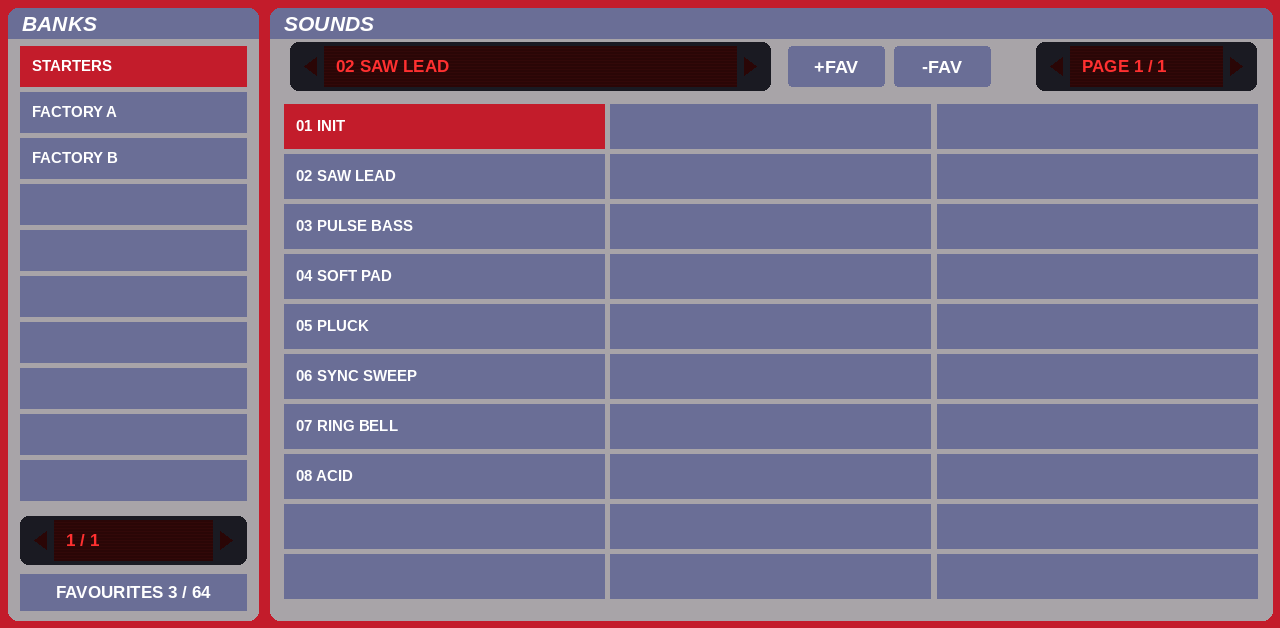
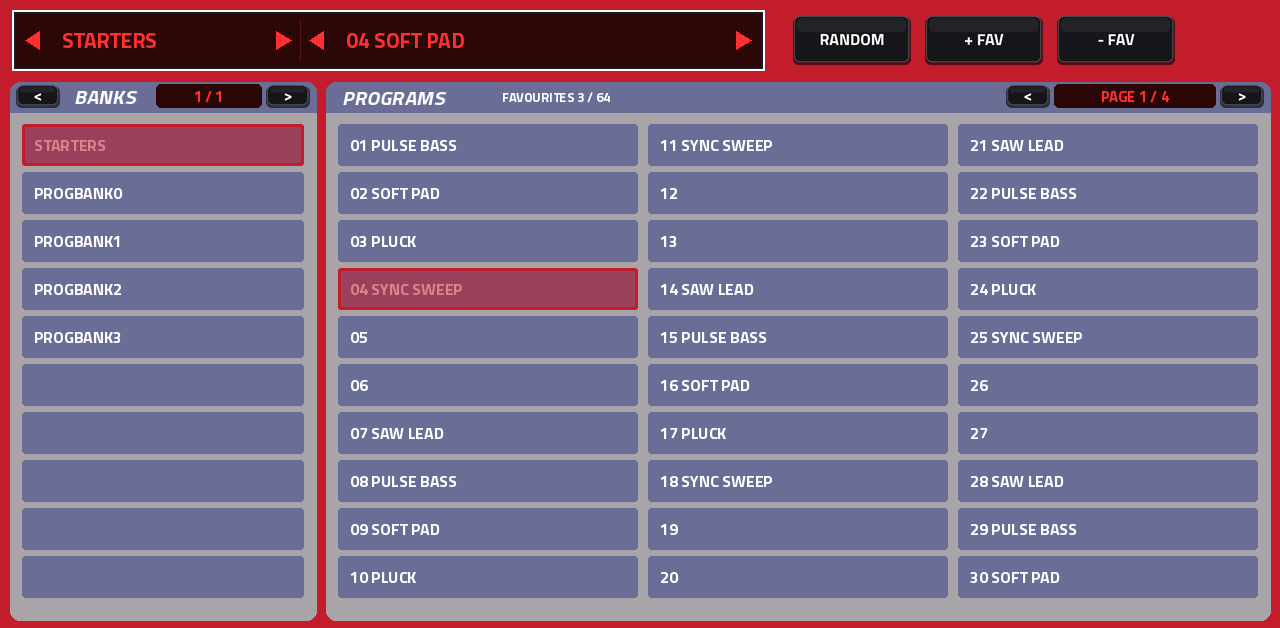
NodalRed2x 0.2.0: release packaging, README, screenshots, tested.json; keeps a 0.1.0 VST/nodalred2x data folder
Claude-Session: https://claude.ai/code/session_01V7tb5w5dPsa6WFixuaniE5

diff --git a/tools/scrub_zip.py b/tools/scrub_zip.py
@@ -1,0 +1,37 @@
+#!/usr/bin/env python3
+"""Rewrite comment lines in a release zip's install.sh that name firmware versions (public text stays version-neutral), refresh
+SHA256SUMS, keep every entry's mode bits. tools/scrub_zip.py dist/<zip> [...]"""
+import hashlib, re, sys, zipfile
+
+FIX = [(re.compile(r"^(\s*#.*?)\(the plugin loads either way; device test, MPC 3\.10\.0, (docs/NOTES\.md.*)$"), r"\1(the plugin loads either way; \2"),
+       (re.compile(r"^(\s*#\s*)MPC OS 3\.10\.1\+ loads plugins"), r"\1Newer MPC OS versions load plugins")]
+for path in sys.argv[1:]:
+    zin = zipfile.ZipFile(path)
+    items = [(i, zin.read(i)) for i in zin.infolist()]
+    zin.close()
+    data = {i.filename: d for i, d in items}
+    for i, d in items:
+        if i.filename.endswith("/install.sh"):
+            lines = d.decode().split("\n")
+            for k, l in enumerate(lines):
+                for rx, rep in FIX:
+                    lines[k] = rx.sub(rep, lines[k])
+            data[i.filename] = "\n".join(lines).encode()
+    sums = [n for n in data if n.endswith("/SHA256SUMS")]
+    for sn in sums:
+        root = sn[: -len("SHA256SUMS")]
+        out = []
+        for line in data[sn].decode().splitlines():
+            h, _, name = line.partition("  ")
+            full = root + name
+            if full in data:
+                h = hashlib.sha256(data[full]).hexdigest()
+            out.append(h + "  " + name)
+        data[sn] = ("\n".join(out) + "\n").encode()
+    with zipfile.ZipFile(path, "w", zipfile.ZIP_DEFLATED) as zout:
+        for i, _ in items:
+            zi = zipfile.ZipInfo(i.filename, i.date_time)
+            zi.external_attr, zi.compress_type = i.external_attr, zipfile.ZIP_DEFLATED
+            zout.writestr(zi, data[i.filename])
+    left = [l for l in data[[n for n in data if n.endswith("/install.sh")][0]].decode().splitlines() if re.search(r"3\.10", l)]
+    print(path, "scrubbed" if not left else "STILL: %s" % left)

diff --git a/src/NodalRed2xPlugin.cpp b/src/NodalRed2xPlugin.cpp
@@ -46,6 +46,7 @@ extern "C" void nodalred2x_render_float(void* inst, float* out, int frames);   /
 #include <mutex>
 #include <string>
 #include <thread>
+#include <sys/stat.h>
 #include <vector>
 
 #ifndef NR2X_NAME
@@ -127,7 +128,14 @@ public:
         // The engine reads <data dir>/roms/; 1.x's data dir was <plugin folder>/nodalred2x (MODULE_SUBDIR). (Not mpc::contentPath(): a
         // function-local static std::string.)
         const std::string folder = mpc::detail::computePluginFolder();
+        // 0.1.0's "VST2 Plugins" zip kept it in <plugin folder>/VST/nodalred2x (beside the .so in VST/): an upgrade in place keeps
+        // using that one while there is no <plugin folder>/nodalred2x (Welle 0.2's rule); the catalog zip had it at the folder root
         dataDir_ = folder + "/nodalred2x";
+        {
+            struct stat st;
+            const std::string old = folder + "/VST/nodalred2x";
+            if (stat(dataDir_.c_str(), &st) != 0 && stat(old.c_str(), &st) == 0 && S_ISDIR(st.st_mode)) dataDir_ = old;
+        }
         eng_ = mpc_engine();
         inst_ = eng_->create(dataDir_.c_str());
         for (int i = 0; i < kFavSlots; ++i) addProgram("--", {});

diff --git a/README.md b/README.md
@@ -11,17 +11,25 @@ controller and two DSP56362 voice DSPs). "NodalRed2x" is gearmulator's name for 
 ## Features
 - **The real engine:** the original firmware runs on emulated hardware: two oscillators with sync, ring mod and FM, the multimode filter with
   distortion, three envelopes, two LFOs, the arpeggiator and the morph amounts of the original.
+- **A native MPC screen in the look of the original skin** (red, charcoal and slate), laid out like the Nord's panel: knobs on lilac scales with
+  the envelope stages pictured over the ADSR knobs, the choices as green LEDs you tap, each with a black **cycle button** that steps through
+  them as on the real panel, and on/off switches with their LED. 5 pages:
+  - **MAIN:** the red display (bank and sound, with step arrows and the data wheel), status and CPU, master level, bend range, PANIC, RELOAD,
+    RANDOM, +FAV / -FAV, the performance section (play mode, portamento with auto, detune with unison, octave shift, mod wheel destination) and
+    8 quick-edit knobs
+  - **BANKS:** the bank list and a sound browser, 30 sounds a page, the selected bank and sound lit, page steppers in the section headers
+  - **OSC/FILTER:** both oscillators, the mix, the filter with its envelope, keyboard tracking, velocity and distortion
+  - **AMP/MOD:** the amplifier envelope and gain, the mod envelope, LFO 1 and LFO 2 / arpeggiator with their sync
+  - **MORPH:** the 25 morph amounts
 - **Sound sets:** the instrument has no built-in patches, so NodalRed2x brings a small **STARTERS** bank of its own sounds and loads your own sound-set
   files (`.syx` / `.mid` single dumps, such as Clavia's Factory Program Library) as extra banks, 99 sounds each.
-- **Favourites in the MPC PRESET menu:** press **+FAV** on any sound to save it, then pick it from MPC's own preset list. **-FAV** removes it.
-  Up to 64 favourites, kept across projects.
-- **A complete editor on the touchscreen:** 7 pages.
-  - **MAIN:** bank and sound; the original's performance section (master level, display, play mode, portamento, unison detune, octave shift, mod wheel destination) and 8 quick-edit knobs
-  - **BANKS:** the bank list and a sound browser, 30 sounds a page, favourites
-  - **OSC**, **FILTER**, **AMP**, **MOD** (both LFOs, mod envelope, mod wheel, arpeggiator) and **MORPH** (the 25 morph amounts)
+- **RANDOM:** a random sound from every loaded bank.
+- **Named favourites in the MPC PRESET menu:** **+FAV** opens an on-screen keyboard with the sound's name (up to 20 characters); edit it and SAVE,
+  then pick it from MPC's own preset list. **-FAV** removes it. Up to 64 favourites, kept across projects.
 - **Follows MPC's tempo:** while MPC plays, a synced LFO 2 and the arpeggiator run at MPC's tempo.
-- **Q-Links:** each page's knobs are mapped to the Q-Links.
-- **Saved with your project:** the current sound and every edit come back when the project is reopened.
+- **Q-Links:** each page's knobs in blocks of four, one block per Q-Link column.
+- **Saved with your project:** the current sound and every edit come back when the project is reopened. Projects saved with 0.1.0 still load.
+- **Clean output:** audio reaches the MPC in floating point, so loud sounds don't clip in the plugin.
 
 ![BANKS page](docs/screenshots/banks.png)
 
@@ -31,13 +39,16 @@ controller and two DSP56362 voice DSPs). "NodalRed2x" is gearmulator's name for 
 - This is the heaviest synth port of the family: it needs about one and a half of the fast cores' worth of CPU, so keep an eye on the DROPOUTS readout.
 
 ## Install
-1. Download `NodalRed2x-<version>-VST2-Plugins.zip` from [Releases](https://github.com/sd88me/mpc-vst-nodalred2x/releases) and unzip it.
-2. Copy the `VST2 Plugins` folder to the root of a drive the MPC can see. If that drive already has a `VST2 Plugins` folder, copy the
-   `sd88me - VST - NodalRed2x` folder into it.
-3. Put your ROM in `VST2 Plugins/sd88me - VST - NodalRed2x/VST/nodalred2x/roms/`.
-4. Optional: put sound-set files (`.syx` or `.mid`) in `.../VST/nodalred2x/banks/`. The file name becomes the bank name.
-5. On the MPC, turn on **Preferences > Enhancements (Beta) > Enable Enhancements and VST2 Support**, then restart.
-6. Load **NodalRed2x** on a plugin track from the External VST Plugins list.
+Either:
+- **`NodalRed2x-<version>-mpc-sdk.zip`** from [Releases](https://github.com/sd88me/mpc-vst-nodalred2x/releases): copy the folder
+  `sd88me - VST - NodalRed2x` into a `VST2 Plugins` folder at the root of a drive the MPC can see, put your ROM in its `nodalred2x/roms/` and any
+  sound sets in `nodalred2x/banks/` (the file name becomes the bank name). Turn on **Preferences > Enhancements (Beta) > Enable Enhancements and
+  External Plugin Support**, then restart. Load **NodalRed2x** on a plugin track from External Plugins.
+- **`NodalRed2x-<version>-mpc-aarch64.zip`** (or the OpenMPC Plugin Manager): runs `install.sh` on the device; a 0.1.0 install is upgraded in place
+  and your ROM, sound sets and favourites are kept.
+
+Upgrading a 0.1.0 install from the `VST2-Plugins` zip by copying the new folder over it also works: NodalRed2x keeps using `VST/nodalred2x/`
+(ROM, banks, favourites) while there is no `nodalred2x/` folder beside it.
 
 The firmware boots in about 2 seconds.
 
@@ -51,19 +62,19 @@ The firmware boots in about 2 seconds.
   For Clavia's factory banks, `tools/names_from_pdf.py <Factory Program Library List.pdf> <banks folder>` writes them from your copy of
   Clavia's list (bank files ending in their bank number: `bank0.syx` ... `bank3.syx`).
 
-![FILTER page](docs/screenshots/filter.png)
+![OSC/FILTER page](docs/screenshots/filter.png)
 
 ## Building from source
-You need Docker, Python 3 with Pillow, and a checkout of [mpc-vst-plugins](https://github.com/open-mpc/mpc-vst-plugins). Point `MPC_VST` at it
-(the default is `~/mpc-vst-plugins`).
+You need Docker, Python 3 with Pillow, a checkout of [mpc-vst-plugins](https://github.com/open-mpc/mpc-vst-plugins) (`MPC_VST`, default
+`~/mpc-vst-plugins`) and the MPC plugin builder SDK (`MPC_SDK`, default `~/mpc-plugin-builder-sdk`).
 ```
-./build.sh test               # x86 engine + the wrapper's host test (ASan/UBSan)
-./build.sh all                # aarch64 vst/build/aarch64/nodalred2x.so + the skin
-tools/package_310.sh 0.1.0    # dist/NodalRed2x-0.1.0-VST2-Plugins.zip
-tools/preview.py out/         # offline previews of every page
+tests/run.sh                  # offline host test of the native plugin (x86, ASan/UBSan) with your ROM in data/roms
+./build-sdk.sh                # aarch64 plugin folder in build/sdk/ (./build-sdk.sh beta: "NodalRed2x 2 Beta", its own uid)
+tools/make_tui.py --preview   # the native skin (skins/) and offline previews in docs/skin-preview/
+tools/package_catalog.sh      # dist/NodalRed2x-<version>-mpc-aarch64.zip, -mpc-sdk.zip, SHA256SUMS
 ```
-`build/<arch>/nodalred2x_engine_test <dir with roms/>` boots the ROM and checks notes, sounds, parameters, the arpeggiator and the saved state.
-Run the aarch64 one on the device. `src/VENDORED.md` lists the small local patches to the vendored gearmulator source.
+`tools/gen_sdk_params.py` keeps the released parameter order (`params.lock`, append only). `src/VENDORED.md` lists the small local patches to
+the vendored gearmulator source.
 
 ## Credits
 NodalRed2x for MPC is built on other people's work. See [CREDITS.md](CREDITS.md) for the details.

diff --git a/release/notes-0.2.0.md b/release/notes-0.2.0.md
@@ -1,0 +1,30 @@
+# NodalRed2x 0.2.0
+
+NodalRed2x gets a new native MPC screen in the look of the original skin, laid out like the Nord Lead 2x panel, with RANDOM and named favourites.
+
+## What's new
+- **A new screen, 5 pages** (MAIN, BANKS, OSC/FILTER, AMP/MOD, MORPH): the original skin's red, charcoal and slate, knobs on lilac scales with the
+  envelope stages pictured over the ADSR knobs, choices as green LEDs you tap, each with a cycle button that steps through them as on the real
+  panel, and on/off switches with their LED.
+- **RANDOM**: a random sound from every loaded bank.
+- **Named favourites**: **+FAV** opens an on-screen keyboard with the sound's name (up to 20 characters); edit it and SAVE. Favourites are in
+  MPC's PRESET list.
+- **BANKS**: the selected bank and sound stay lit; the page steppers sit in the section headers.
+- **Cleaner output**: audio reaches the MPC in floating point, so loud sounds no longer clip in the plugin.
+- **Projects saved with 0.1.0 still load** with their sound and edits; the parameter order is unchanged, so automation and Q-Links carry over.
+
+## Install
+- `NodalRed2x-0.2.0-mpc-sdk.zip`: copy the folder `sd88me - VST - NodalRed2x` into a `VST2 Plugins` folder on a drive of the MPC and put your
+  ROM in its `nodalred2x/roms/` (sound sets in `nodalred2x/banks/`). Needs MPC OS 3.10.1 or later, with Preferences → Enhancements (Beta) →
+  Enable Enhancements and External Plugin Support switched on. Copying it over a 0.1.0 folder from the VST2-Plugins zip keeps using the ROM,
+  banks and favourites in its `VST/nodalred2x/`.
+- `NodalRed2x-0.2.0-mpc-aarch64.zip`: run `install.sh` on the device as root (or use the Plugin Manager). A 0.1.0 install is upgraded in place;
+  your ROM, sound sets and favourites are kept.
+
+Use one of the two, not both. 64-bit MPCs only (Live III and others); the Force and the 32-bit MPCs are not supported.
+Your own Nord Lead 2x ROM is required and not included.
+
+## Notes
+- Tested on an MPC Live III as the identical beta build. A 0.1.0 project was tested offline with a real 0.1.0 project chunk; loading one on the
+  device, save/reload on the device and the install.sh upgrade were not tried.
+- The heaviest synth of the family: keep an eye on the DROPOUTS readout with big chords.
